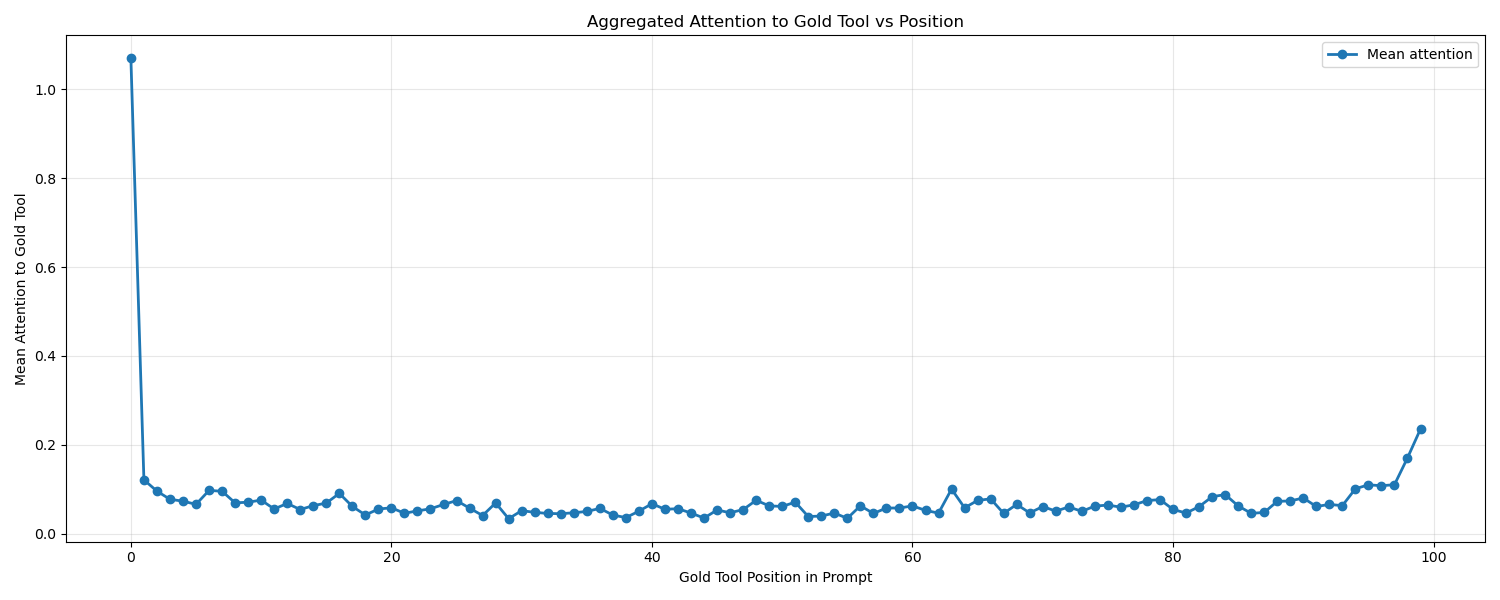
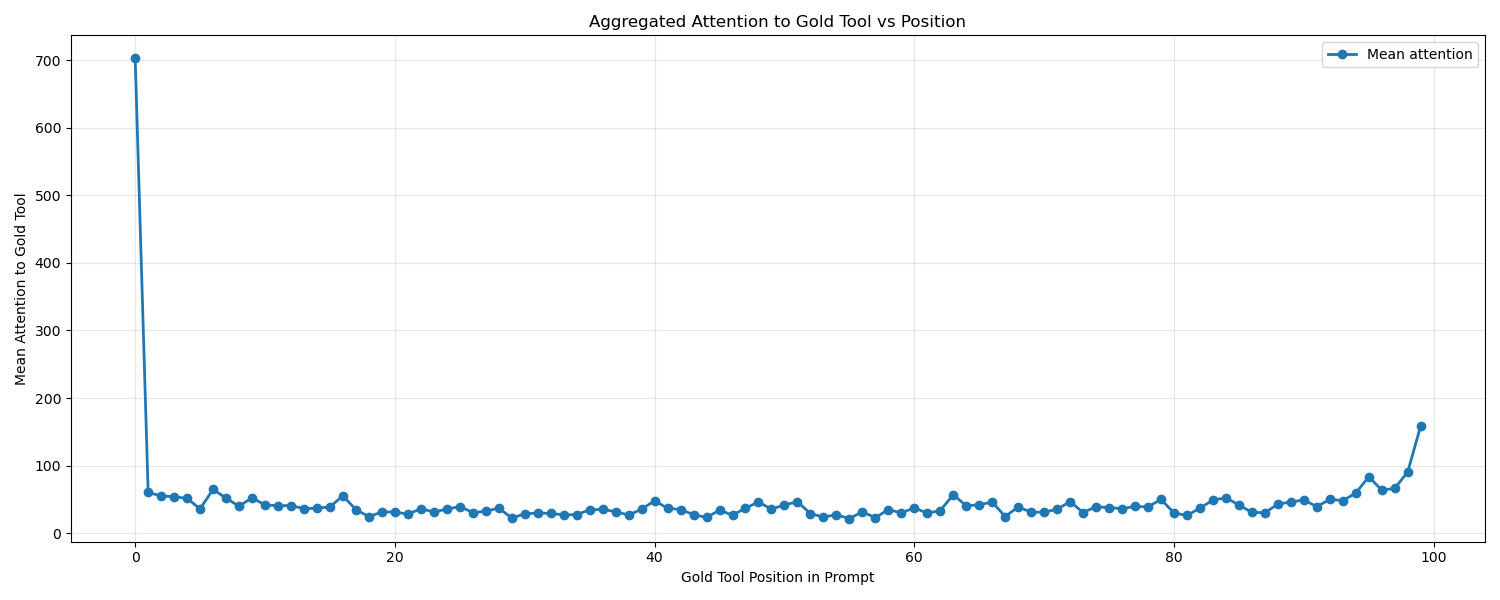
update attention score calculation to use sum

diff --git a/Assignment-3/code3.py b/Assignment-3/code3.py
@@ -16,10 +16,10 @@ def get_toolwise_attention_scores(query_span, item_spans, attentions):
             attn_query_to_tool = layer_attn[
                 0, :, query_span[0] : query_span[1], tool_span[0] : tool_span[1]
             ]  # shape: (num_heads, query_len, tool_len)
-            attn_mean_on_query_tool = attn_query_to_tool.mean(
+            attn_sum_on_query_tool = attn_query_to_tool.sum(
                 dim=(1, 2)
             )  # shape: (num_heads,)
-            toolwise_scores[tool_id, layer_ix] = attn_mean_on_query_tool
+            toolwise_scores[tool_id, layer_ix] = attn_sum_on_query_tool
 
     return toolwise_scores
 
